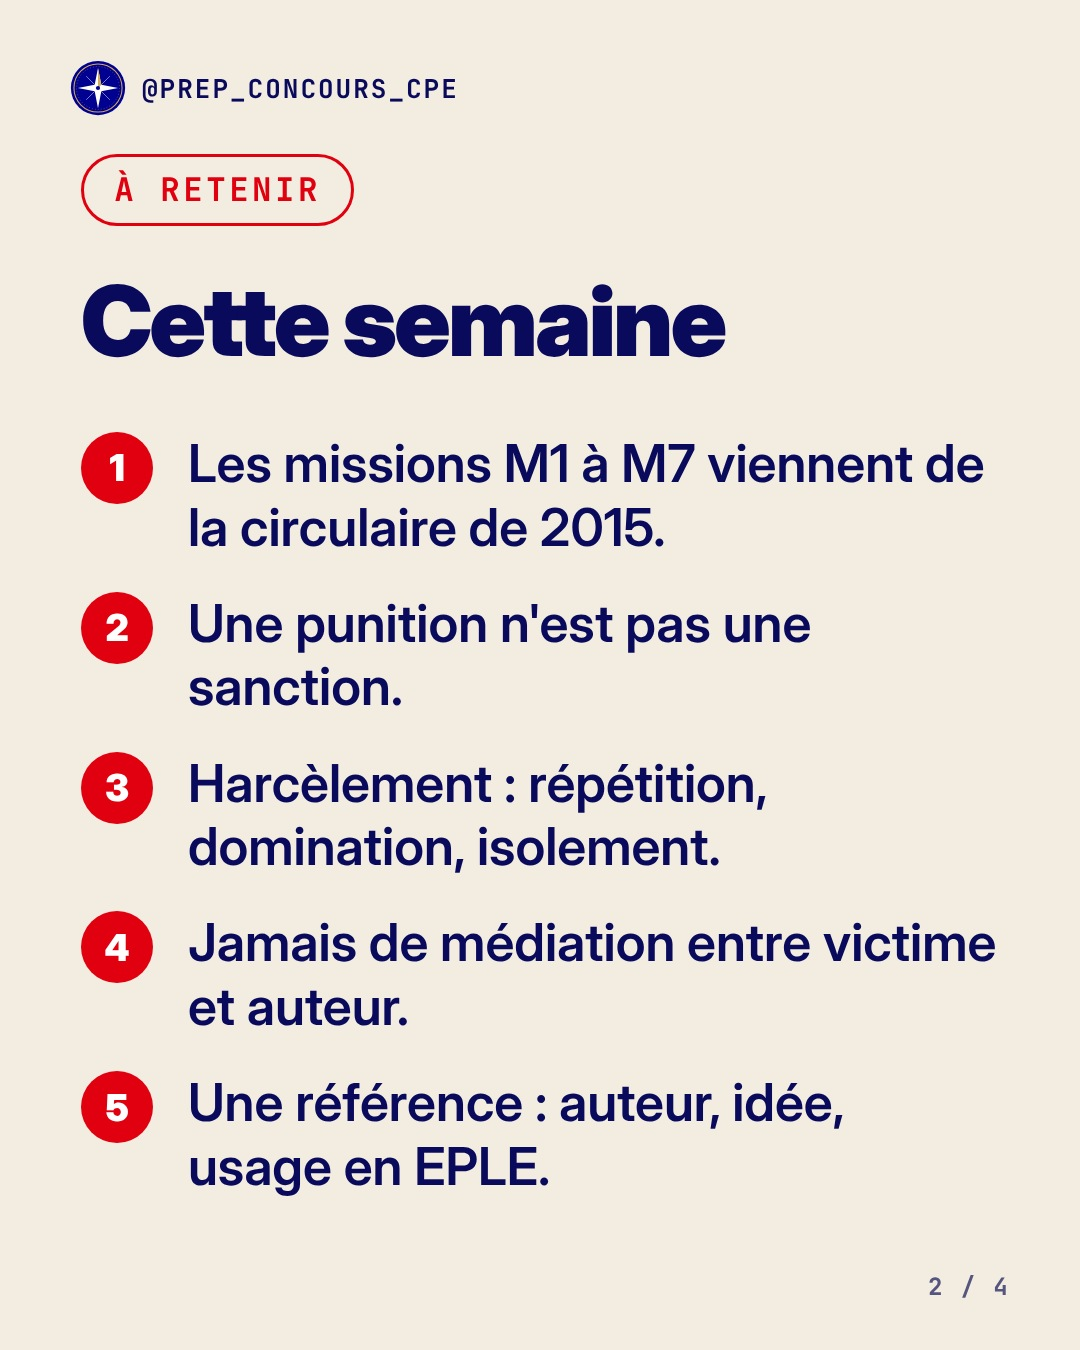
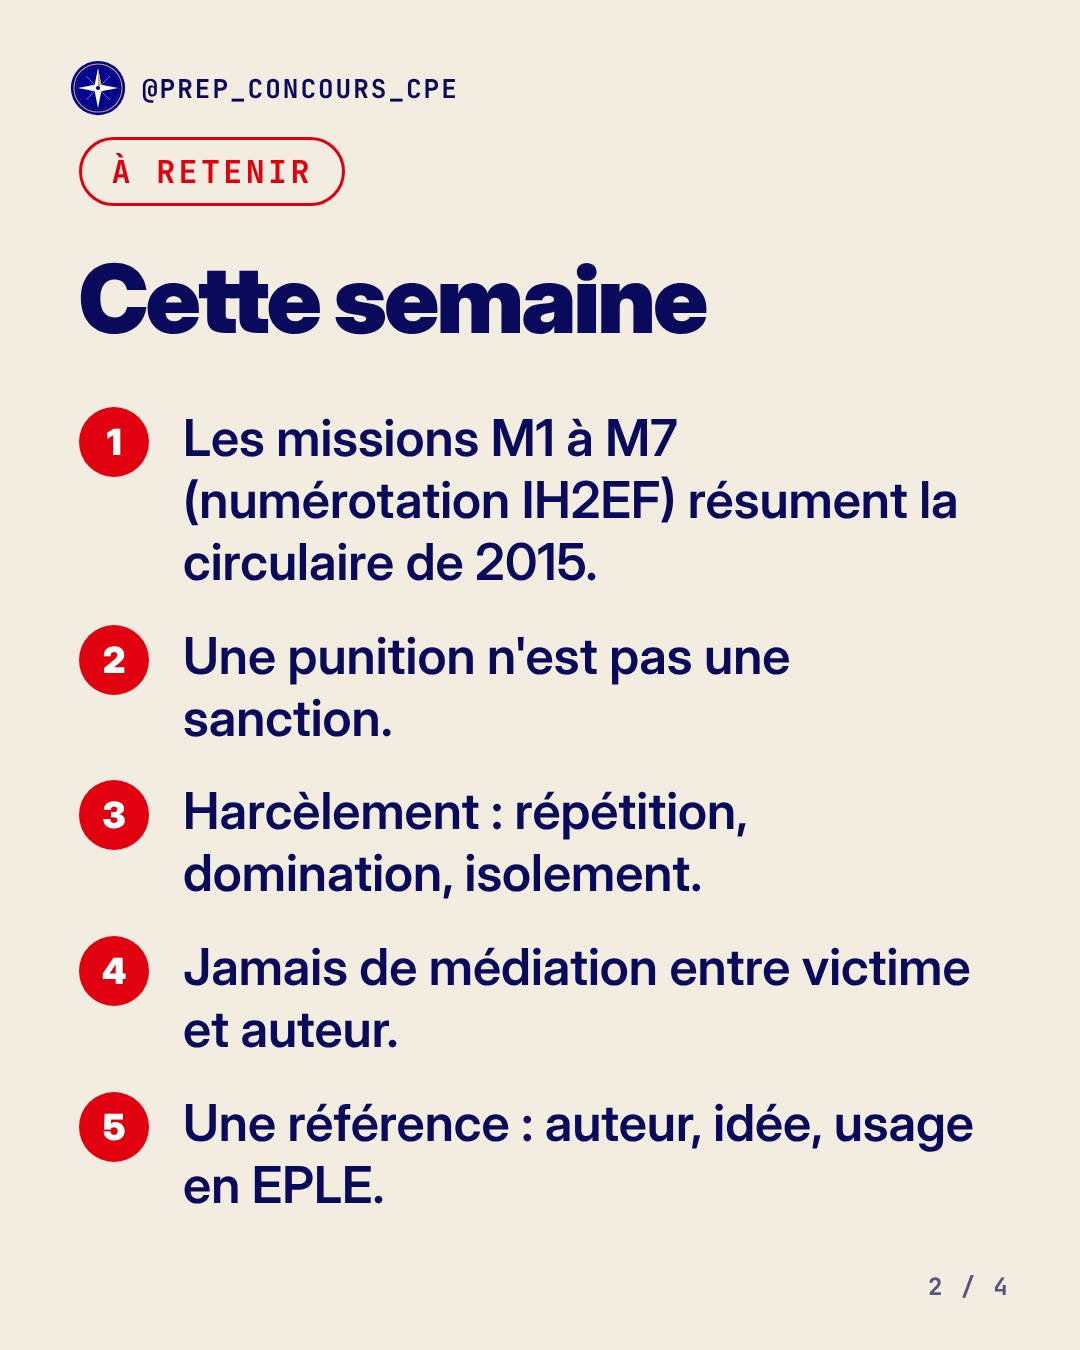
Carrousel du 7 novembre : numérotation IH2EF des missions M1 à M7
Claude-Session: https://claude.ai/code/session_01FvtqKS2a9jhztCiMdp3pre

Changed region(s): [[0.0611, 0.1867, 0.9167, 0.7778], [0.0611, 0.7778, 0.9167, 0.9022], [0.0611, 0.0933, 0.3361, 0.1556]]

diff --git a/tools/content.py b/tools/content.py
@@ -131,7 +131,7 @@ POSTS = [
          slides=[
              dict(kind="cover", kicker="BILAN DE LA SEMAINE", title="5 choses à retenir"),
              dict(kind="list", kicker="À RETENIR", title="Cette semaine",
-                  lines=["Les missions M1 à M7 viennent de la circulaire de 2015.", "Une punition n'est pas une sanction.", "Harcèlement : répétition, domination, isolement.",
+                  lines=["Les missions M1 à M7 (numérotation IH2EF) résument la circulaire de 2015.", "Une punition n'est pas une sanction.", "Harcèlement : répétition, domination, isolement.",
                          "Jamais de médiation entre victime et auteur.", "Une référence : auteur, idée, usage en EPLE."], small=True),
              dict(kind="scene", kicker="LE MINI-DÉFI", title="30 secondes",
                   lines=["Explique à voix haute la différence entre punition et sanction.", "Si tu bloques, la fiche 16 t'attend."]),
